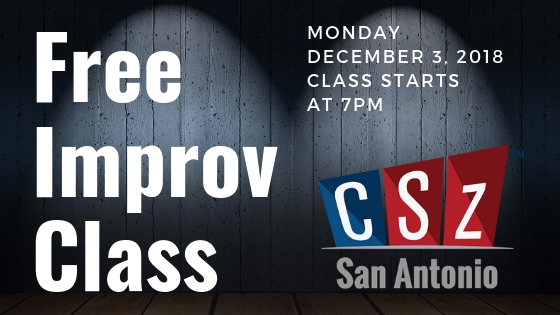
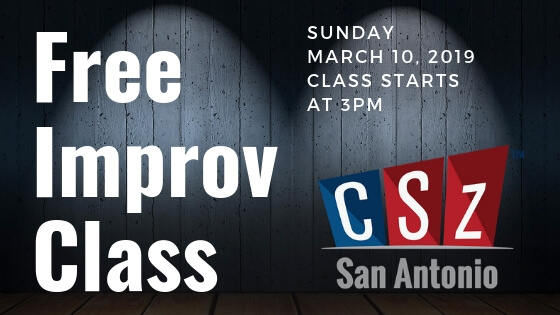
free improv class march

Changed region(s): [[0.5464, 0.0857, 0.9107, 0.2], [0.6071, 0.3143, 0.6982, 0.3714]]

diff --git a/content/freeimprovworkshop.md b/content/freeimprovworkshop.md
@@ -1,16 +1,16 @@
 ---
 box_title: Get Registered
 cta: Register Now For Free
-cta_link: https://www.eventbrite.com/e/free-improv-comedy-workshop-intro-to-improv-tickets-52894497867
+cta_link: https://www.eventbrite.com/e/copy-of-free-improv-comedy-workshop-intro-to-improv-tickets-56367483661
 date: "2018-11-26T10:43:47-06:00"
 description: Come check out what this Improv thing is!! It's a free workshop to see
   just how fun improv is.
-end_date: "2018-12-03T20:00:40-06:00"
-featured: "false"
+end_date: "2019-03-10T16:00:40-06:00"
+featured: "true"
 featured_image: /images/freeimprovclass.jpg
 images:
 - /images/freeimprovclass.jpg
-start_date: "2018-12-03T19:00:40-06:00"
+start_date: "2019-03-10T15:00:40-06:00"
 title: Free Improv Workshop
 ---
 
